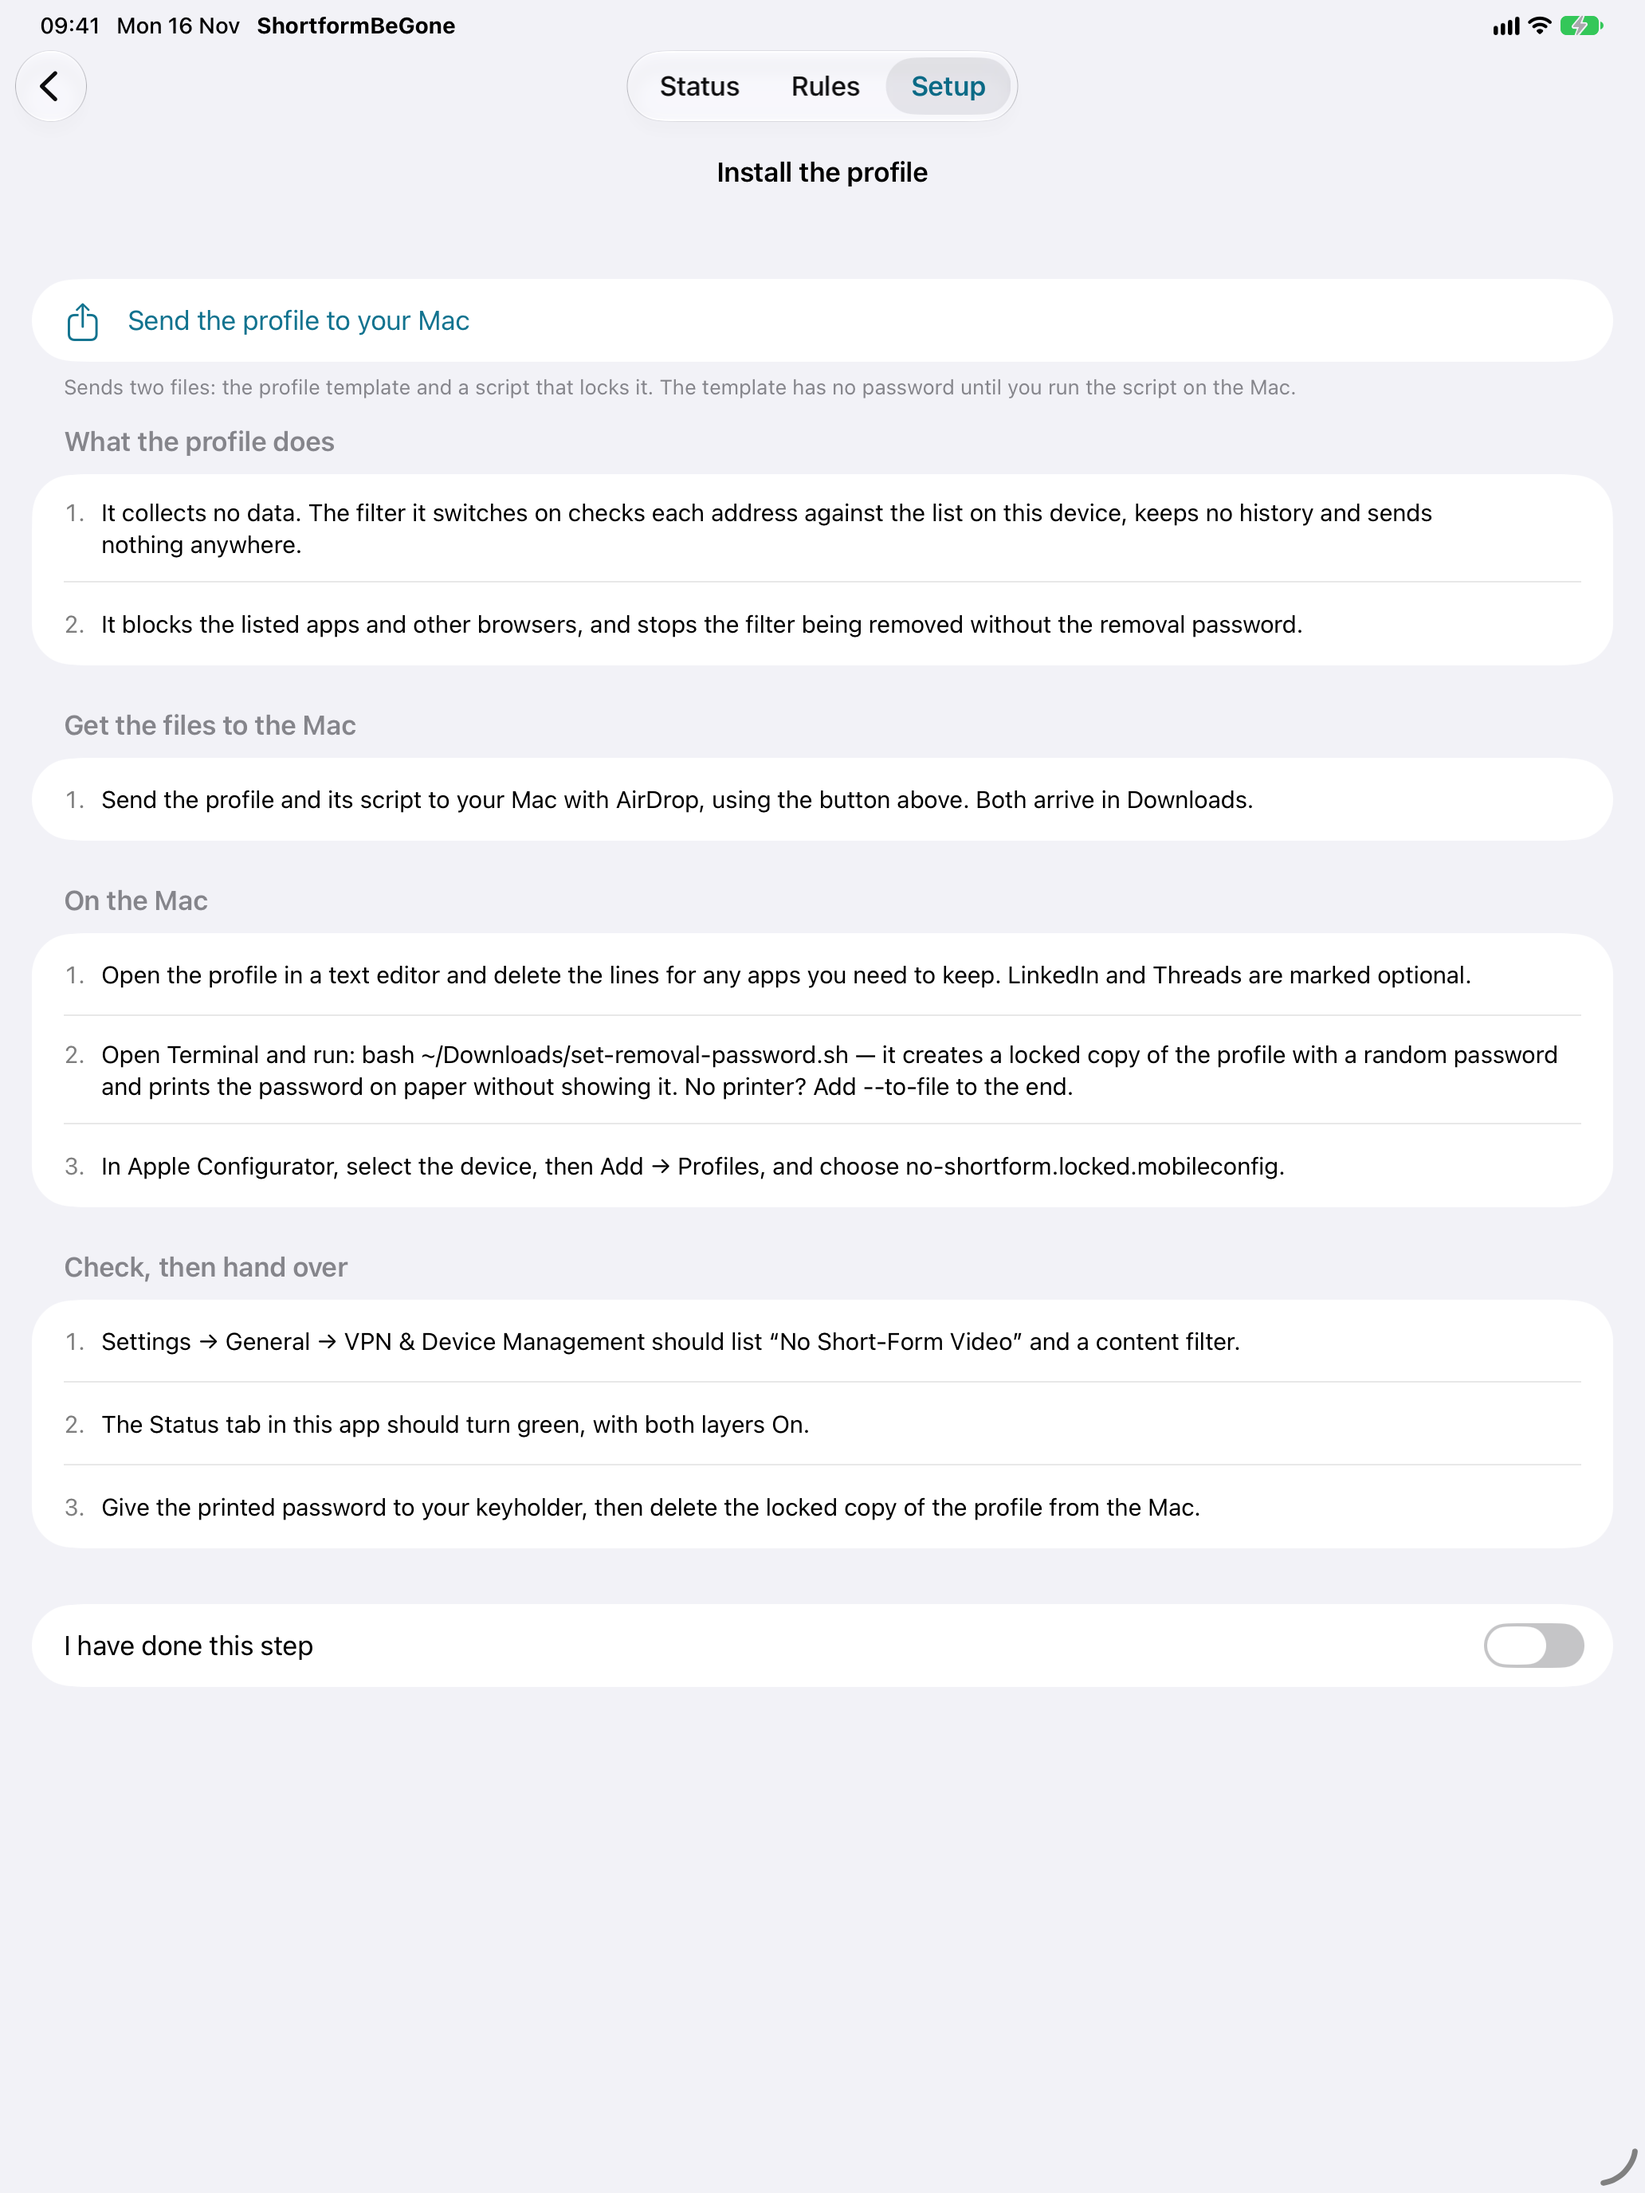
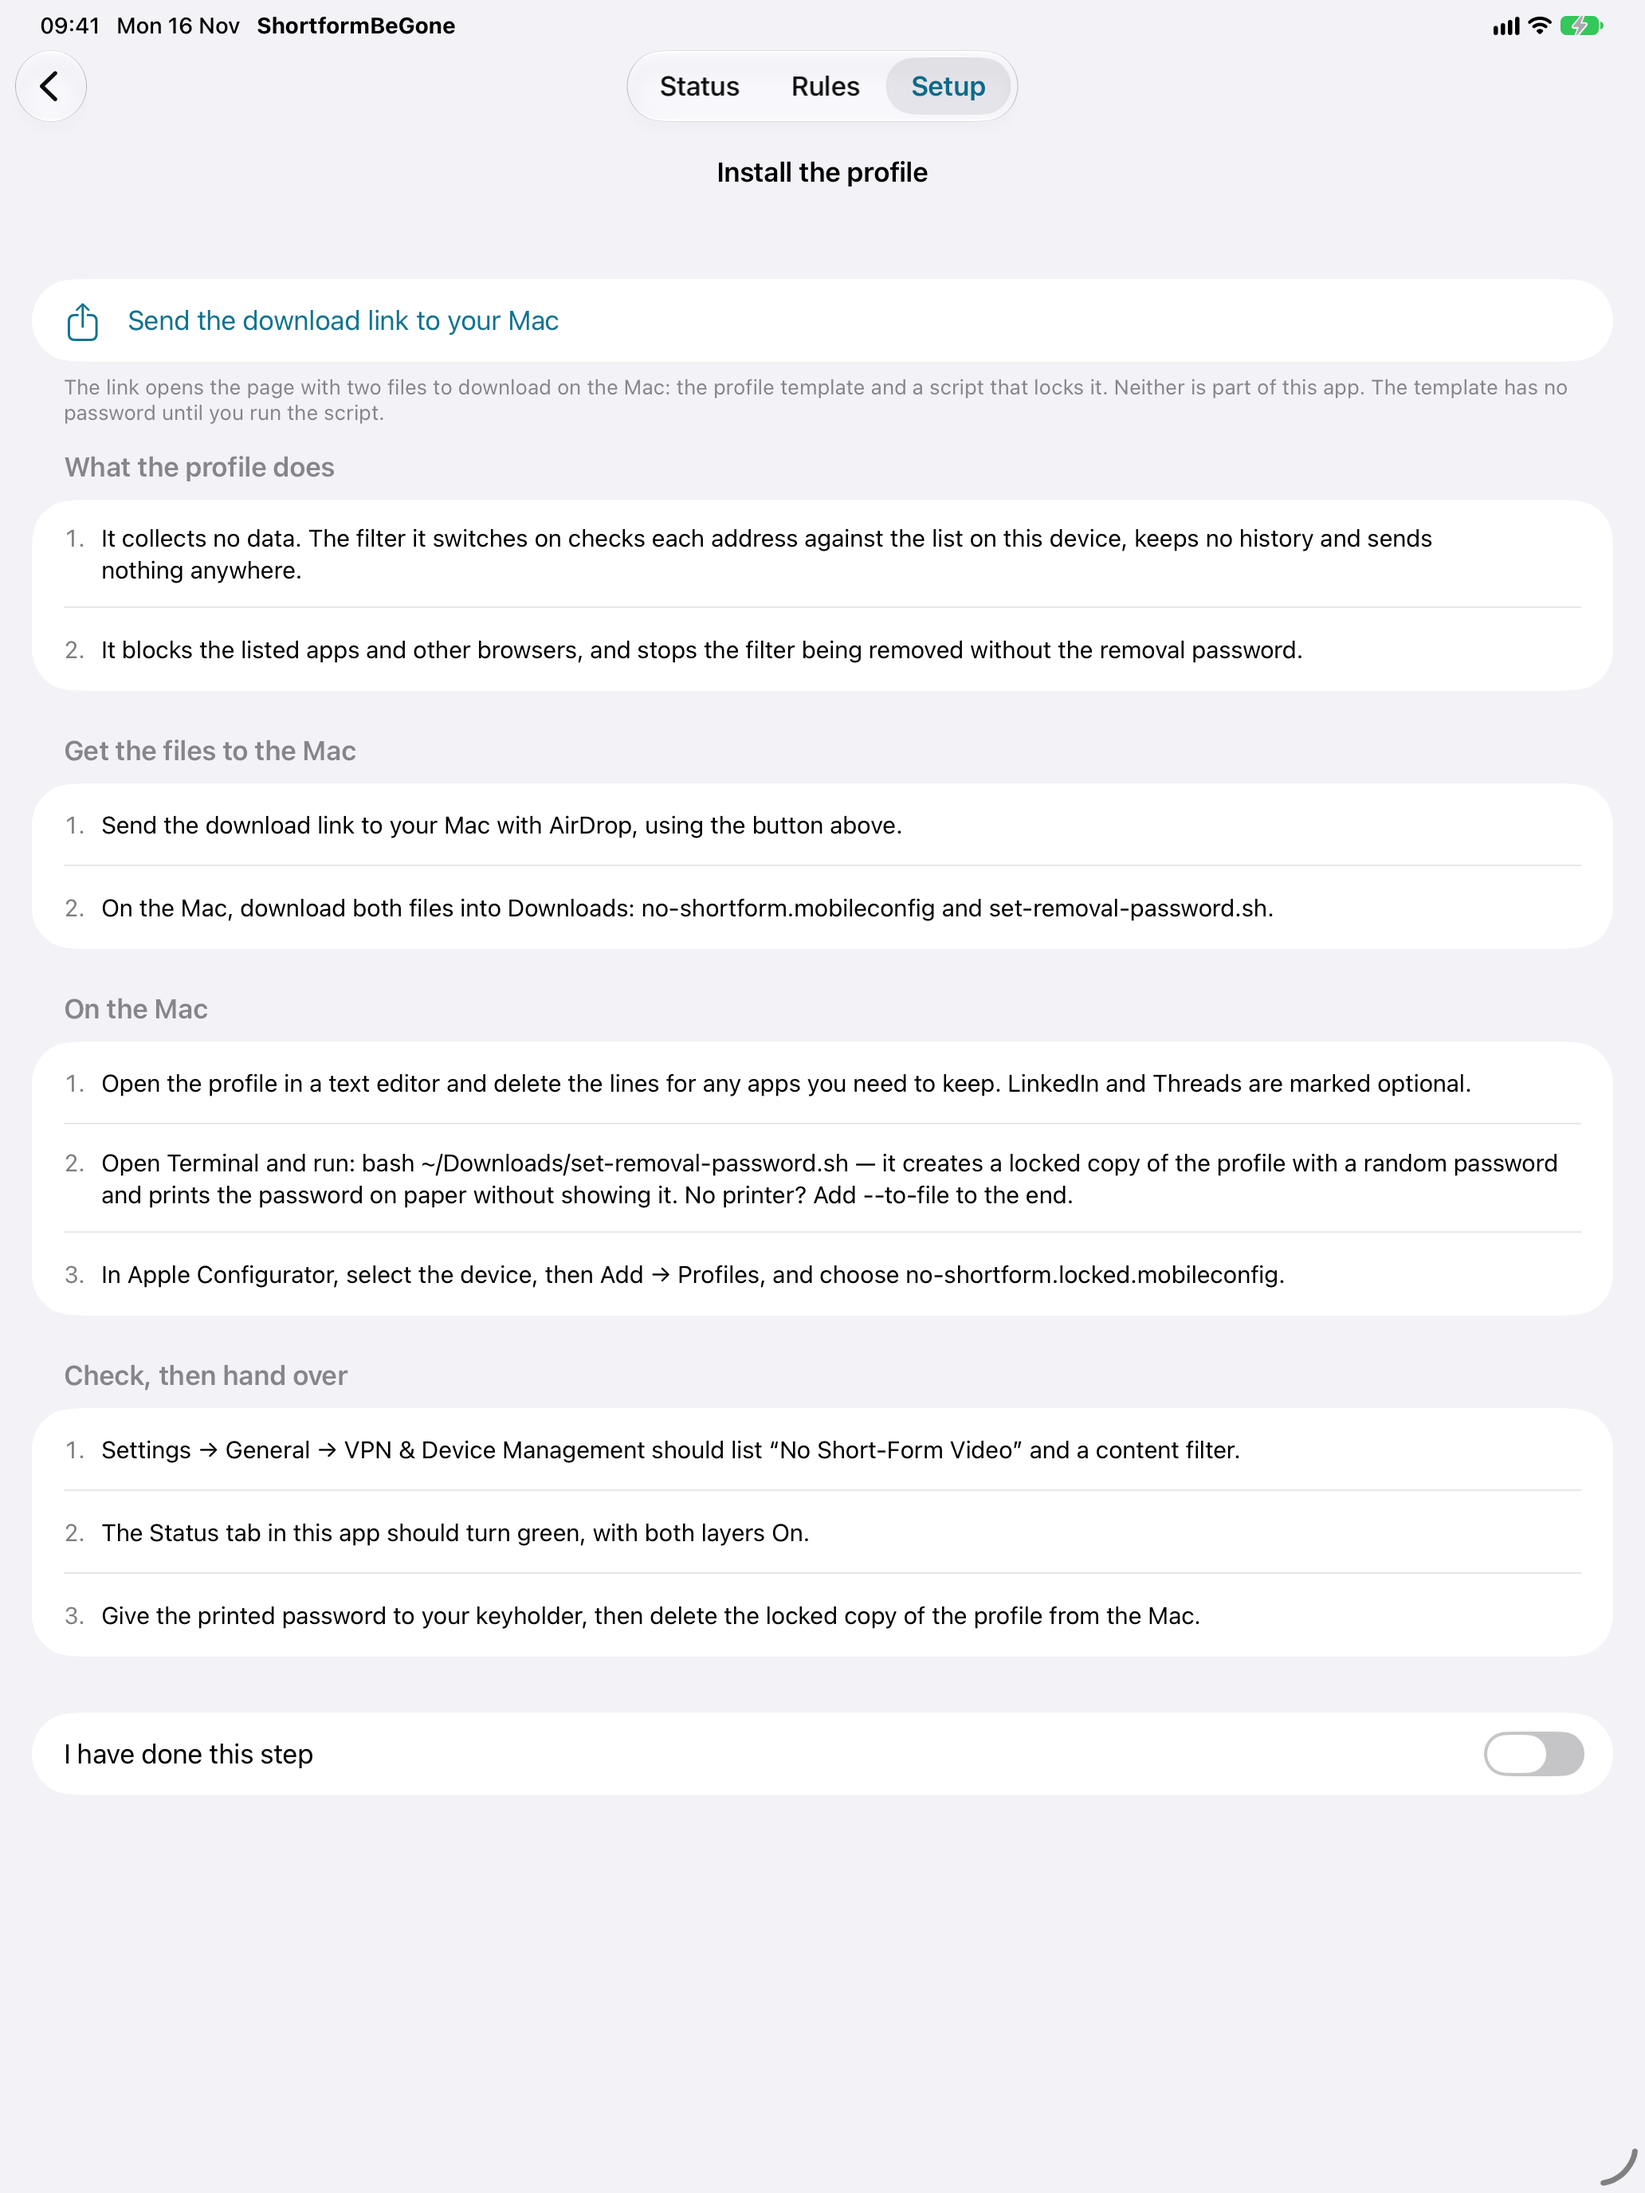
Take the profile out of the app and add a support contact
App Review restricts apps that offer configuration profiles, so the profile
template and its script are no longer bundled. The Install the profile step
shares a link to where they are published, for download on the Mac. The About
screen and privacy policy give a contact email and a link for reporting
problems. Screenshots regenerated.

diff --git a/ShortformBeGone/SetupView.swift b/ShortformBeGone/SetupView.swift
@@ -110,13 +110,13 @@ struct SetupStepView: View {
                 }
             }
 
-            if step.offersProfile, !ProfileFile.urls.isEmpty {
+            if step.offersProfile {
                 Section {
-                    ShareLink(items: ProfileFile.urls) {
-                        Label("Send the profile to your Mac", systemImage: "square.and.arrow.up")
+                    ShareLink(item: ProfileFile.page) {
+                        Label("Send the download link to your Mac", systemImage: "square.and.arrow.up")
                     }
                 } footer: {
-                    Text("Sends two files: the profile template and a script that locks it. The template has no password until you run the script on the Mac.")
+                    Text("The link opens the page with two files to download on the Mac: the profile template and a script that locks it. Neither is part of this app. The template has no password until you run the script.")
                 }
             }
 
@@ -146,13 +146,9 @@ struct SetupStepView: View {
 }
 
 enum ProfileFile {
-    /// The profile template and the script that sets its removal password.
-    static var urls: [URL] {
-        [
-            Bundle.main.url(forResource: "no-shortform", withExtension: "mobileconfig"),
-            Bundle.main.url(forResource: "set-removal-password", withExtension: "sh"),
-        ].compactMap { $0 }
-    }
+    /// Where the profile template and the script that sets its removal
+    /// password are published. They are downloaded on the Mac, not shipped here.
+    static let page = URL(string: "https://github.com/agentsee-work/ShortformBeGone/tree/main/Profile")!
 }
 
 struct AboutView: View {
@@ -177,6 +173,11 @@ struct AboutView: View {
                 Text("iOS only lets a content filter like this run on a supervised device. Supervision is also what makes the lock hold: the filter cannot be switched off in Settings, and the profile cannot be removed without a password you do not keep.")
             }
             .font(.subheadline)
+
+            Section("Help") {
+                Link("Email apps@agentsee.work", destination: URL(string: "mailto:apps@agentsee.work")!)
+                Link("Report a problem on GitHub", destination: URL(string: "https://github.com/agentsee-work/ShortformBeGone/issues")!)
+            }
 
             Section {
                 LabeledContent("Version", value: version)

diff --git a/ShortformBeGoneTests/ShortformBeGoneTests.swift b/ShortformBeGoneTests/ShortformBeGoneTests.swift
@@ -94,9 +94,10 @@ struct FilterRulesTests {
         #expect(hostsOnly.denyPaths == FilterRules.standard.denyPaths)
     }
 
-    /// The profile template shipped in the app must carry the same rules as the built-in list.
-    @Test func bundledProfileMatchesStandardRules() throws {
-        let url = try #require(Bundle.main.url(forResource: "no-shortform", withExtension: "mobileconfig"))
+    /// The published profile template must carry the same rules as the built-in list.
+    @Test func publishedProfileMatchesStandardRules() throws {
+        let url = URL(fileURLWithPath: #filePath).deletingLastPathComponent().deletingLastPathComponent()
+            .appendingPathComponent("Profile/no-shortform.mobileconfig")
         let profile = try #require(try PropertyListSerialization.propertyList(from: Data(contentsOf: url), format: nil) as? [String: Any])
         let payloads = try #require(profile["PayloadContent"] as? [[String: Any]])
         let filter = try #require(payloads.first { $0["PayloadType"] as? String == "com.apple.webcontent-filter" })

diff --git a/ShortformBeGone/SetupGuide.swift b/ShortformBeGone/SetupGuide.swift
@@ -128,7 +128,8 @@ enum SetupGuide {
                     "It blocks the listed apps and other browsers, and stops the filter being removed without the removal password.",
                 ]),
                 .init(heading: "Get the files to the Mac", items: [
-                    "Send the profile and its script to your Mac with AirDrop, using the button above. Both arrive in Downloads.",
+                    "Send the download link to your Mac with AirDrop, using the button above.",
+                    "On the Mac, download both files into Downloads: no-shortform.mobileconfig and set-removal-password.sh.",
                 ]),
                 .init(heading: "On the Mac", items: [
                     "Open the profile in a text editor and delete the lines for any apps you need to keep. LinkedIn and Threads are marked optional.",

diff --git a/ShortformBeGoneUITests/ShortformBeGoneUITests.swift b/ShortformBeGoneUITests/ShortformBeGoneUITests.swift
@@ -71,7 +71,7 @@ final class ShortformBeGoneUITests: XCTestCase {
         let profileStep = app.staticTexts["Install the profile"]
         if !profileStep.isHittable { app.swipeUp() }
         profileStep.tap()
-        XCTAssertTrue(app.buttons["Send the profile to your Mac"].waitForExistence(timeout: 5))
+        XCTAssertTrue(app.buttons["Send the download link to your Mac"].waitForExistence(timeout: 5))
         snapshot("4-install-profile")
 
         app.swipeUp()

diff --git a/AppStore/README.md b/AppStore/README.md
@@ -49,7 +49,7 @@ WHAT IT LEAVES ALONE
 IN THE APP
 • Status: which layers are running
 • Rules: what is blocked, and a box to test any address
-• Setup: the full guide, and the profile ready to send to your Mac
+• Setup: the full guide, with a link to the profile for your Mac
 
 PRIVATE BY DESIGN
 Safari applies the blocking rules itself; the app never sees what you browse. The Guard runs only on the four sites it covers, looks only at the page address, and keeps nothing. The content filter checks each address against a list on your device and keeps no history. No account, no analytics, no ads, no purchases. Nothing leaves your device.
@@ -81,7 +81,7 @@ The app has three parts:
 - A Safari web extension ("Guard") with one content script and no background page. On youtube.com, instagram.com, facebook.com and snapchat.com it reads the page address and returns to the site's home page when the address is a short-form section opened without a page load. It collects and sends nothing.
 - A network content filter (NEFilterDataProvider + NEFilterControlProvider). As documented in TN3134, this only runs on a supervised device, where it is enabled by a com.apple.webcontent-filter configuration profile. The app never calls NEFilterManager.saveToPreferences. On a review device the Status tab reports it as "Not set up", which is expected.
 
-The Setup tab is a guide to supervising one's own device. Its "Install the profile" step shares the configuration profile template (bundled in the app) and a small shell script that the user runs on their own Mac to set the profile's removal password. The script is never executed on the device.
+The Setup tab is a guide to supervising one's own device. The app does not contain, install or offer a configuration profile: its "Install the profile" step shares a link to the open-source project page, where the user downloads the profile template on their own Mac and installs it themselves with Apple Configurator.
 
 To see the network filter running: supervise a test device with Apple Configurator, install the app, then install the profile with Apple Configurator. The Status tab turns green.
 
@@ -106,11 +106,11 @@ Suggested order: `1-status`, `2-rules-blocked`, `3-setup`, `4-install-profile`. 
 1. **Sign in to Xcode** with the developer account (Xcode → Settings → Accounts). No signing certificate is on this Mac yet.
 2. **Open the project and let Xcode register the five App IDs** (the app and its four extensions). Select each of those five targets → Signing & Capabilities and check there are no errors. The Network Extensions capability (Content Filter) is already declared in the entitlements of the app and the two filter extensions.
 3. **Test on your supervised phone:** run from Xcode once, then install the profile. Its `PluginBundleID` is already `agentsee.ShortformBeGone`.
-4. **Privacy policy URL:** `https://github.com/agentsee-work/ShortformBeGone/blob/main/PRIVACY.md`. **Support URL:** `https://github.com/agentsee-work/ShortformBeGone/issues`.
+4. **Privacy policy URL:** `https://github.com/agentsee-work/ShortformBeGone/blob/main/PRIVACY.md`. **Support URL:** `https://github.com/agentsee-work/ShortformBeGone/issues`. **Contact email** (App Review Information and the app's About screen): `apps@agentsee.work`; the inbox must exist before submitting. Once the ShortformBeGone page on agentsee.work is live, use it for both URLs and for `ProfileFile.page` in `SetupView.swift`.
 5. **Create the app in App Store Connect** with bundle ID `agentsee.ShortformBeGone`, and paste in the text above.
 6. **Archive and upload:** Product → Archive → Distribute App → App Store Connect.
 7. **Submit for review** with the review notes above.
 
 ## Review risk
 
-Lower than before: the Safari blocker works on a reviewer's ordinary device, so the app does something visible without supervision. The network filter still cannot be shown on an unsupervised device; the review notes explain that. A screen recording of the full lock on your supervised phone is still worth attaching.
+Lower than before: the Safari blocker works on a reviewer's ordinary device, so the app does something visible without supervision, and the profile is no longer inside the app (guideline 5.5 restricts apps that offer configuration profiles). The network filter still cannot be shown on an unsupervised device; the review notes explain that. A screen recording of the full lock on your supervised phone is still worth attaching.

diff --git a/README.md b/README.md
@@ -67,7 +67,7 @@ Configurator is flaky. If Prepare hangs or fails, quit it, reconnect and run Pre
 
 ### 3. Install the profile
 
-1. In the app: Setup → Install the profile → **Send the profile to your Mac**. Two files arrive in Downloads: `no-shortform.mobileconfig` and `set-removal-password.sh`. (Both are also in [`Profile/`](Profile).)
+1. Download the two files in [`Profile/`](Profile) into Downloads on the Mac: `no-shortform.mobileconfig` and `set-removal-password.sh`. The app's Setup → Install the profile step has a button that sends this link to your Mac.
 2. Open the profile in a text editor and delete the lines for apps you need to keep. Edit `DenyHosts` / `DenyPaths` to change the rules.
 3. Set the removal password without seeing it:
 

diff --git a/PRIVACY.md b/PRIVACY.md
@@ -13,4 +13,4 @@ ShortformBeGone collects no data.
 
 Because nothing is collected, there is nothing to share, sell, or delete.
 
-Questions: [open an issue](https://github.com/agentsee-work/ShortformBeGone/issues).
+Questions: email [apps@agentsee.work](mailto:apps@agentsee.work) or [open an issue](https://github.com/agentsee-work/ShortformBeGone/issues).
